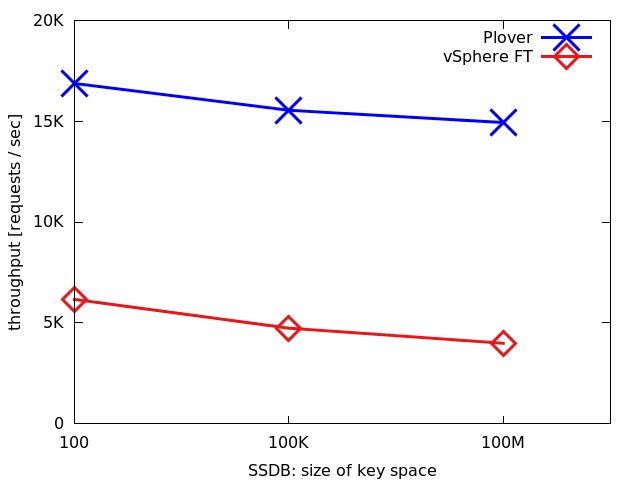
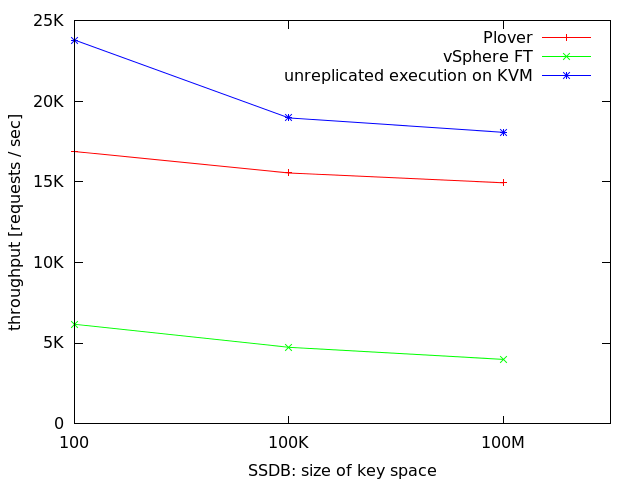
qemu -S

diff --git a/readme.md b/readme.md
@@ -6,20 +6,16 @@ Our benchmarking methodology is consistent to VMware standards and our results o
 
 The goal of our benchmarking is to test the performance of vSphere FT feature under the workloads which would dirty different number of memory pages.
 
-The results show Plover is about 3X faster than vSphere on SSDB in variant key range.
+**The results show Plover is about 3X faster than vSphere on SSDB in variant key range.**
 
 ### Benchmarking Details
 Below are some details of our benchmarking on vSphere 6.5 Fault Tolerance and Plover.
 
-Table 1 shows our performance results of Plover and vSphere running SSDB with different workloads (size of key space).
+Figure 1 shows our performance results of Plover and vSphere running SSDB with different workloads (size of key space).
 
-size of key space | vSphere FT | Plover | unreplicated execution on KVM
------------- | ------------- | ------------- | -------------
--r 100 | 6162.13 req/s | 16875.52 req/s | 23789.89 req/s
--r 100000 | 4734.61 req/s | 15546.15 req/s | 18958.2 req/s
--r 100000000 | 3985.65 req/s | 14935.95 req/s | 18069.56 req/s
+![ssdb vsphere](figures/ssdb_vsphere.png)
 
-Table 2 shows the number of dirty pages for a synchronization and the same rate of dirty pages found in Plover.
+Table 1 shows the number of dirty pages for a synchronization and the same rate of dirty pages found in Plover.
 
 size of key space | # of dirty pages | same rate
 ------------ | ------------- | -------------
@@ -34,8 +30,8 @@ The figures below are the bandwidth consumption and CPU usages of running SSDB w
 ![vSphere CPU-Secondary](figures/cpu_secondary.png)
 
 ### Performance Analysis
-As you can see from table 1, the throughput of vSphere drops down when size of key space increases. We think this drop comes from the number of dirty pages (verified in table 2) and the saturated bandwidth (bandwidth figure).
-On the other hand, since the same rate of dirty pages is very high during a synchronization (table 2), Plover only needs to transfer a very small amount of dirty pages. Therefore, Plover's throughput in table 1 did not go down too much.
+As you can see from figure 1, the throughput of vSphere drops down when size of key space increases. We think this drop comes from the number of dirty pages (verified in table 1) and the saturated bandwidth (bandwidth figure).
+On the other hand, since the same rate of dirty pages is very high during a synchronization (table 1), Plover only needs to transfer a very small amount of dirty pages. Therefore, Plover's throughput in figure 1 did not go down too much.
 
 We also ran a smaller workload to test vSphere and found the bandwidth consumption of vSphere increases with the size of key space.
 
